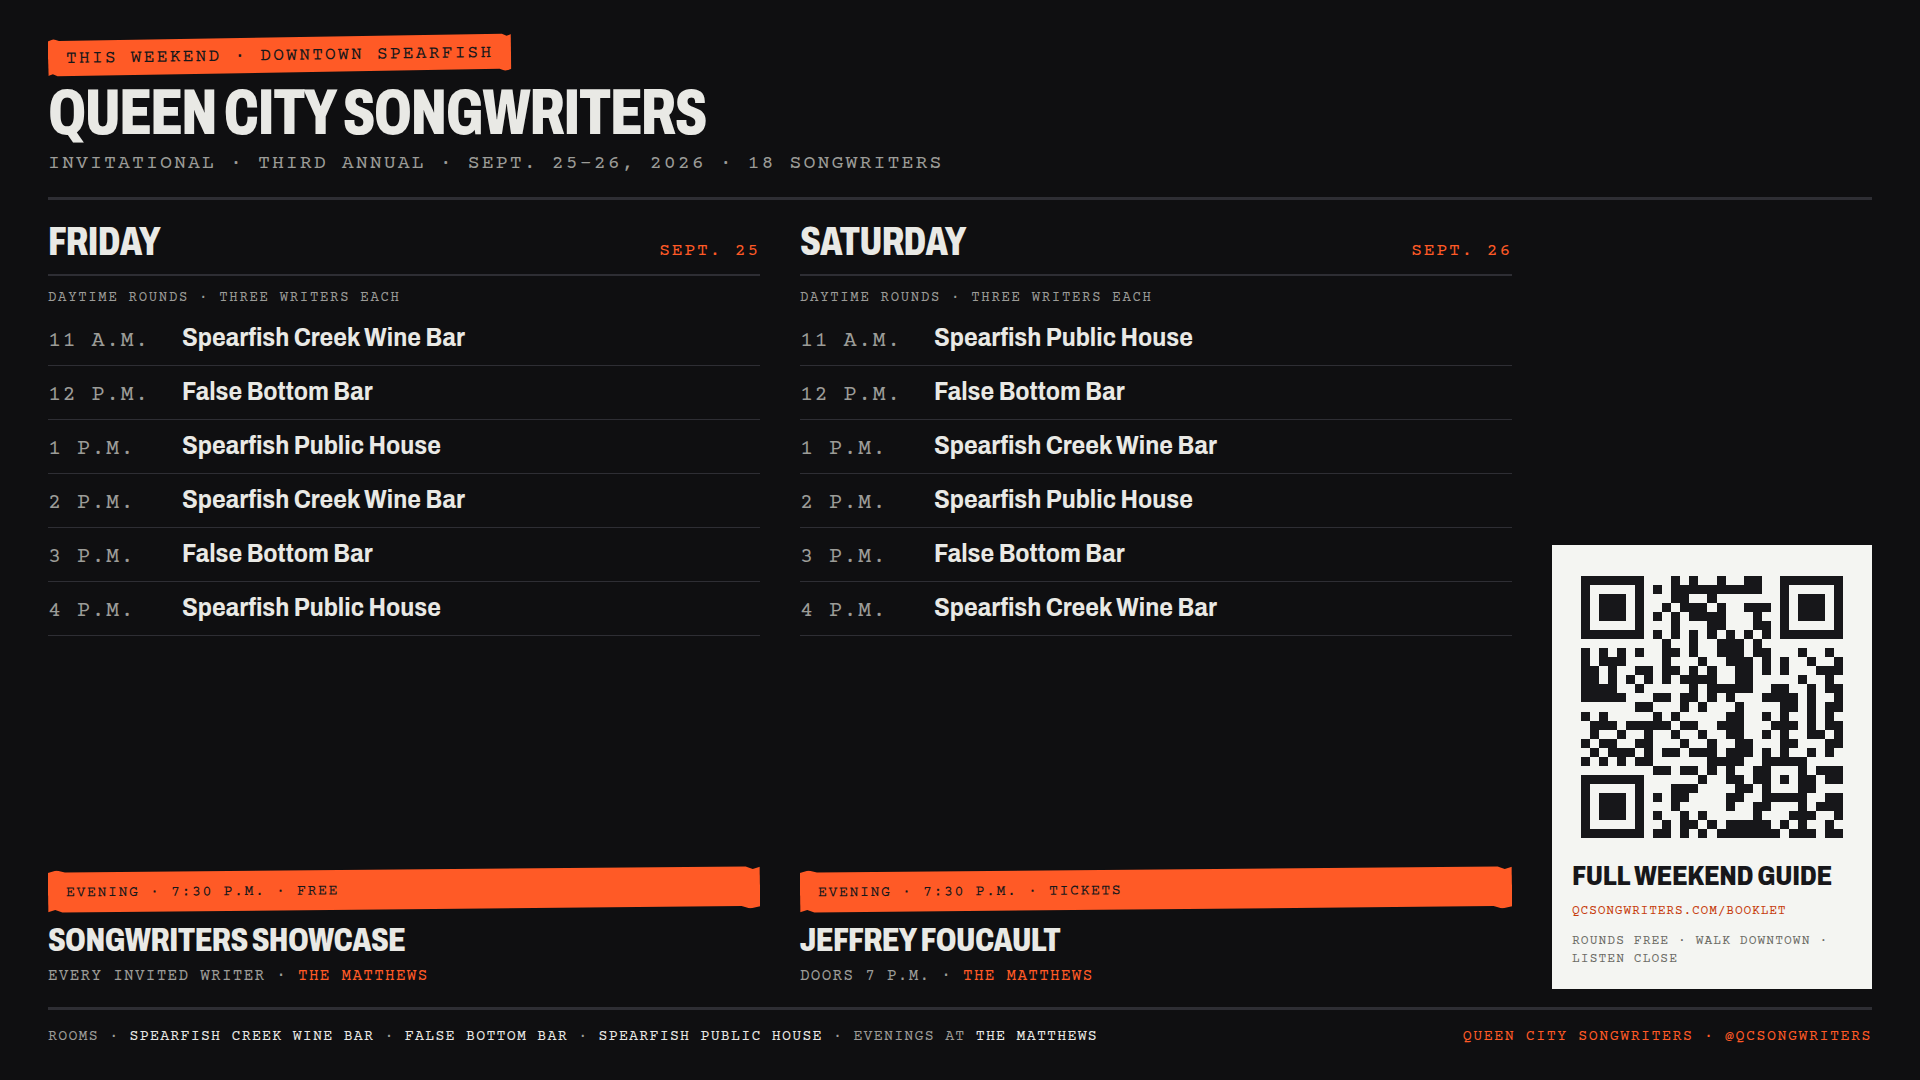
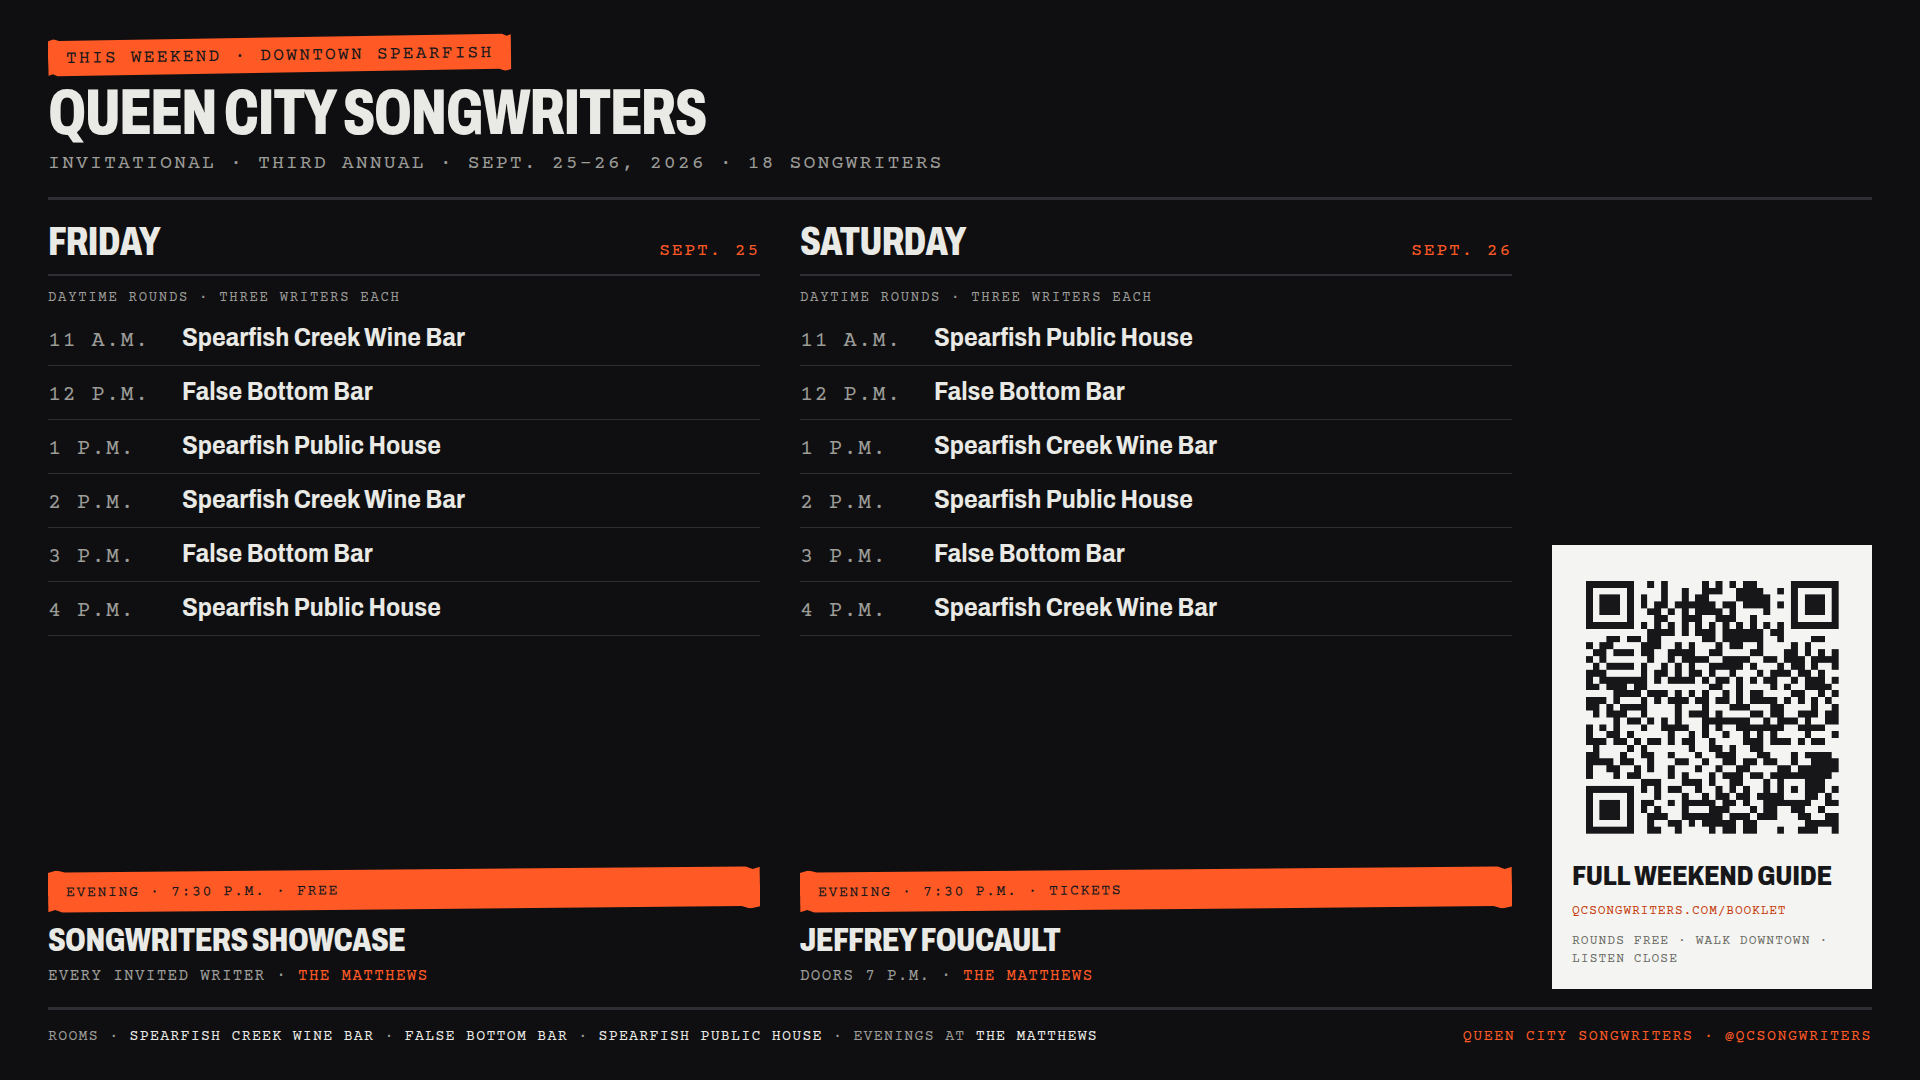
Inline booklet QR into the weekend TV slide.
Encode https://www.qcsongwriters.com/booklet at ECC H as a data-URI so the PNG cannot pick up a stale sibling QR file.

Changed region(s): [[0.8125, 0.5194, 0.9688, 0.7944]]

diff --git a/public/_frames/weekend-tv.html b/public/_frames/weekend-tv.html
@@ -83,7 +83,7 @@
 
   <aside class="cta" aria-label="Scan for the full weekend">
     <div class="cta-sheet">
-      <img class="qr" src="qr-qcsongwriters.svg" width="280" height="280" alt="QR code to qcsongwriters.com/booklet">
[1 lines of base64/hex data omitted]
       <p class="scan">Full weekend guide</p>
       <p class="url">qcsongwriters.com/booklet</p>
       <p class="note">Rounds free · walk downtown · listen close</p>
